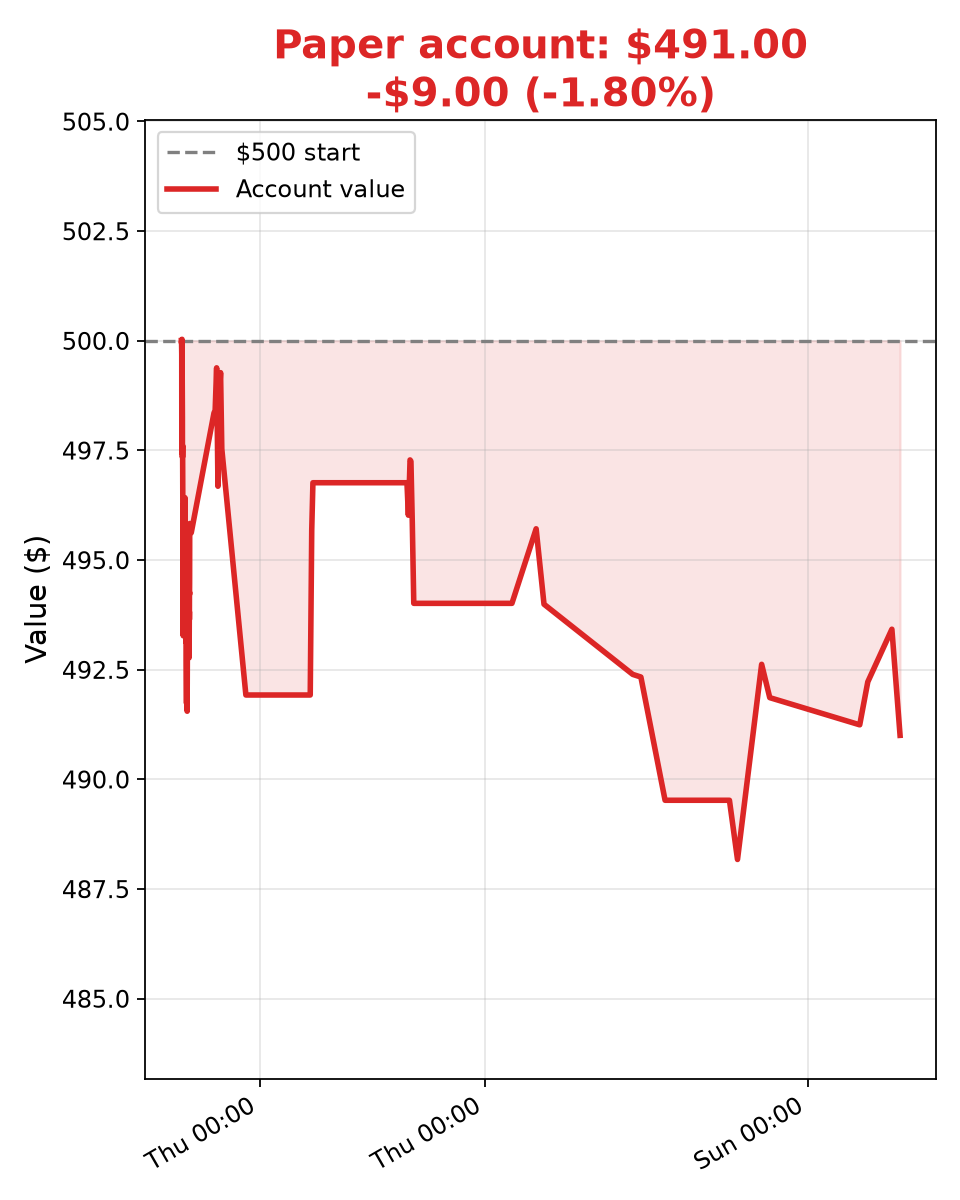
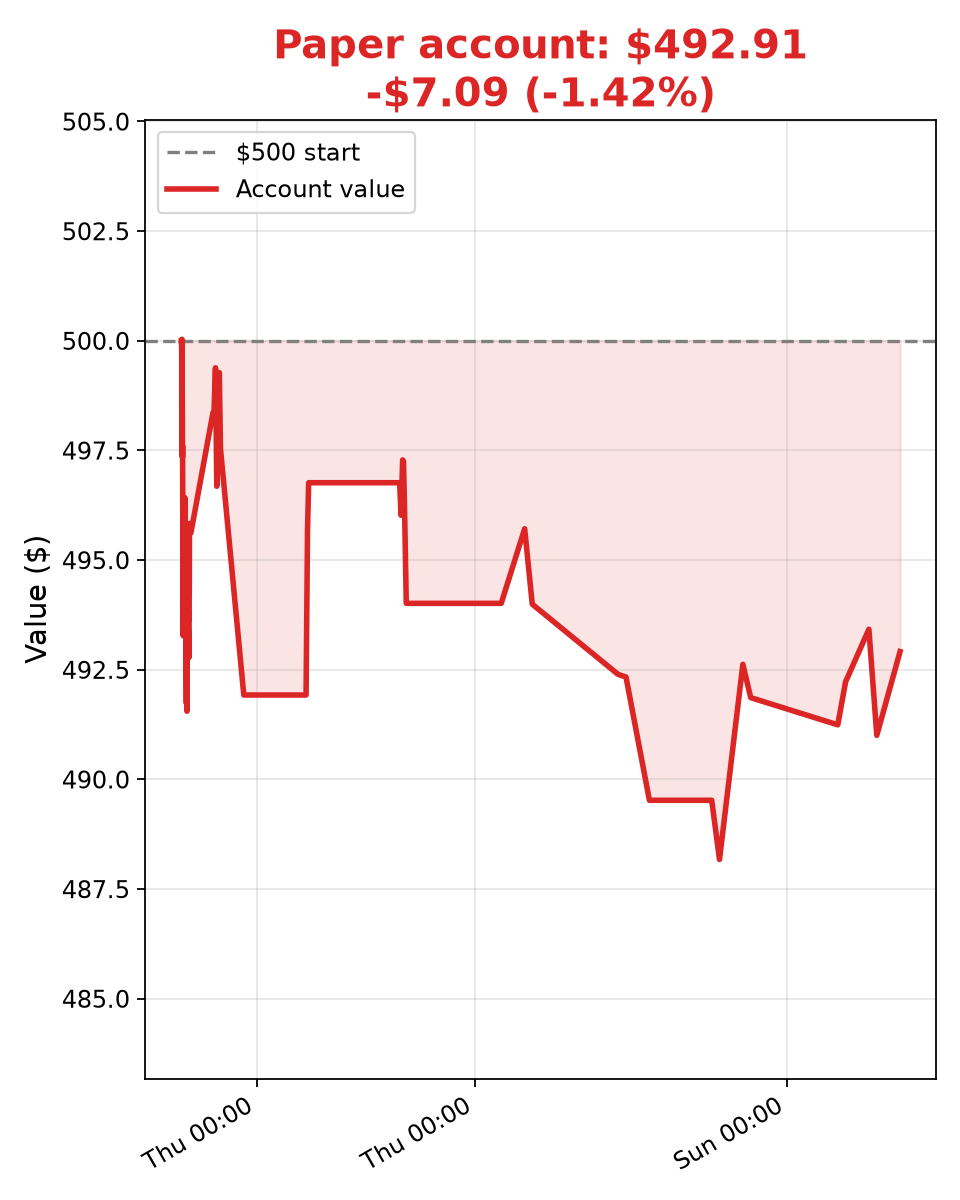
Update 2026-11-04T14:47:56Z

diff --git a/ledger.md b/ledger.md
@@ -246,3 +246,4 @@
 - 2026-11-02T20:52:45Z — total $492.22, cash $364.45 (swing check, 2:52 PM CT, no trade; LLY 1419.61 (+2.2% vs entry), day low 1387 > stop 1330, stop held; SPY 752.6 (−1.0%) above 200d 726.3, below 50d 766.6 — regime OK, no chasing; VRTX 52w high on 2.05x vol but faded 2% off high with earnings after close, SPOT/TSLA 50d breakouts ≤1x vol and 11–19% off highs — skipped)
 - 2026-11-03T14:48:41Z — total $493.42, cash $364.45 (swing check, 8:49 AM CT, no trade; LLY 1433.01 (+3.1% vs entry), day low 1393.6 > stop 1330, stop held; SPY 753.8 above 200d 726.7, below 50d 766.4 — regime OK, no chasing; no breakouts on scan — skipped)
 - 2026-11-03T20:54:00Z — total $491.00, cash $364.45 (swing check, 2:54 PM CT, no trade; LLY 1406.10 (+1.2% vs entry), day low 1393.5 > stop 1330, stop held; SPY 754.0 above 200d 726.7, below 50d 766.4 — regime OK; SPOT 50d breakout on 0.66x vol, 10% off 52w high — skipped)
+- 2026-11-04T14:47:55Z — total $492.91, cash $364.45 (swing check, 8:49 AM CT, no trade; LLY 1427.31 (+2.7% vs entry), day low 1423.7 > stop 1330, stop held; SPY 767.9 above 200d 727.1 and back above 50d 766.5 — regime OK; MSFT 52w high on 0.34x early vol, SPOT/ISRG 50d breakouts on light vol and 7–21% off highs — skipped, recheck PM)
